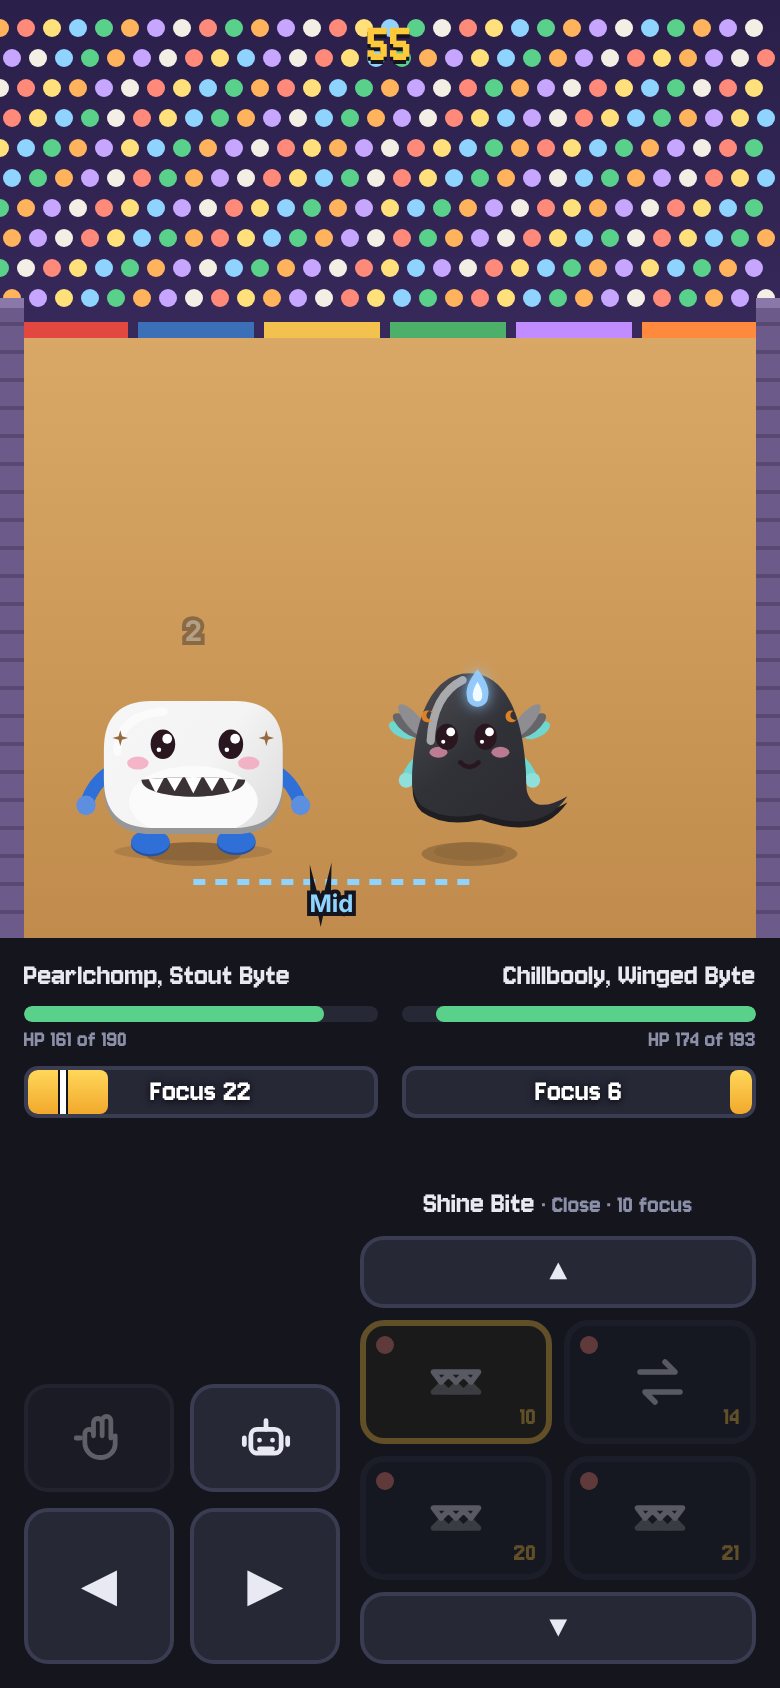
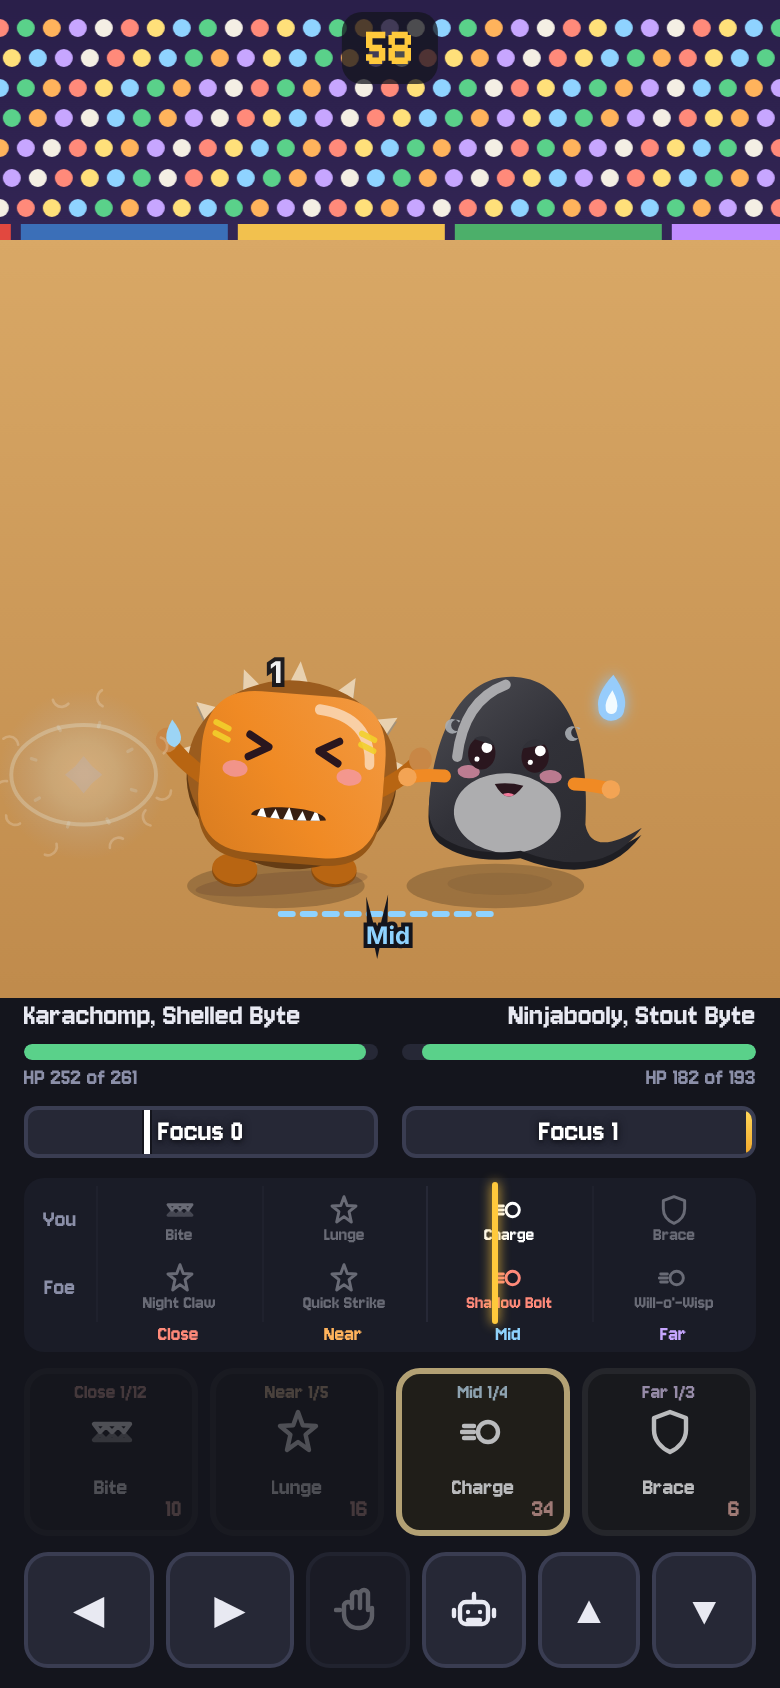
Fight screen: four range boxes, a range panel with your moves and the opponent's, a bigger arena that scrolls, and a light button that takes taps
- The light button sat in a bar that lets taps through, so it never got them
- One box per range; a tap uses its move when it reaches, otherwise selects it for up and down
- The range panel shows your move and the opponent's strongest move for each range, with a marker that follows the real gap
- The arena is 1.7 screens wide with a following camera and bigger Snabits

Claude-Session: https://claude.ai/code/session_01MQWzxUjVm8ojsjAXsvRGrb

diff --git a/prototype/arena-ui.js b/prototype/arena-ui.js
@@ -60,6 +60,23 @@ function atStyle(){
 #atest .slot .rd{position:absolute;left:5px;top:5px;width:9px;height:9px;border-radius:50%}
 #atest .slot.out{opacity:.32}#atest .slot.wait{filter:saturate(.4) brightness(.8)}#atest .slot.poor .c{color:#ff8a7a}#atest .slot.sel{border-color:#ffc93c;background:#2a2617}
 #atest .arr{height:36px;font-size:15px}
+#atest .scr{flex:1 1 auto;min-height:200px}#atest .scr canvas{position:absolute;left:0;right:0;top:var(--safe-t,0px);width:100%}
+#atest .rng{position:relative;margin:6px 12px 0;padding:4px 0 2px;background:#1a1c27;border-radius:10px}
+#atest .rg-row,#atest .rg-lab{display:grid;grid-template-columns:36px repeat(4,1fr);align-items:center}
+#atest .who{font-size:10px;color:#8b8fa8;text-align:center;font-weight:700}
+#atest .rc{height:34px;display:flex;flex-direction:column;align-items:center;justify-content:center;gap:1px;color:#c9cbd6;opacity:.45;border-left:1px solid #262836}
+#atest .rc svg{width:16px;height:16px}#atest .rc small{font-size:8px;line-height:1;max-width:100%;overflow:hidden;white-space:nowrap;text-overflow:ellipsis;padding:0 2px}
+#atest .rc.lit{opacity:1;color:#fff}#atest .rc.foe.lit{color:#ff8a7a}#atest .rc.none small{color:#5d6075}
+#atest .rg-lab span{font-size:9px;font-weight:700;text-align:center}
+#atest .mk{position:absolute;top:2px;bottom:14px;width:3px;margin-left:-1px;background:#ffc93c;border-radius:2px;box-shadow:0 0 6px #ffc93c;transition:left .1s linear}
+#atest .boxes{display:grid;grid-template-columns:repeat(4,1fr);gap:6px;padding:8px 12px 0}
+#atest .box{position:relative;height:84px;border-radius:12px;background:#1d1f2b;border:3px solid #2c2f40;display:flex;flex-direction:column;align-items:center;justify-content:center;gap:2px;padding:0 3px;color:#e8e9f2}
+#atest .box svg{width:24px;height:24px;flex:none}#atest .box .bl{position:absolute;top:3px;left:0;right:0;text-align:center;font-size:9px;font-weight:700}
+#atest .box .n{font-size:10px;font-weight:700;line-height:1.1;text-align:center;max-width:100%;overflow:hidden;display:-webkit-box;-webkit-line-clamp:2;-webkit-box-orient:vertical;margin-top:8px}
+#atest .box .c{position:absolute;right:5px;bottom:2px;font-size:11px;font-weight:700;color:#ffc93c}
+#atest .box.out{opacity:.35}#atest .box.poor .c{color:#ff8a7a}#atest .box.sel{border-color:#ffc93c;background:#2a2617}#atest .box.wait{filter:saturate(.4) brightness(.8)}#atest .box.empty .n{color:#5d6075;margin:0}
+#atest .ctl2{display:grid;grid-template-columns:1.25fr 1.25fr 1fr 1fr 1fr 1fr;gap:6px;padding:8px 12px calc(env(safe-area-inset-bottom,0px) + 10px)}
+#atest .ctl2 .btn{height:58px;font-size:20px}#atest .ctl2 .walk{font-size:26px}#atest .ctl2 svg{width:24px;height:24px}#atest .ctl2 .off{opacity:.35}#atest .ctl2 .on{border-color:#ffc93c;color:#ffc93c}
 #atest .res{position:absolute;left:16px;right:16px;top:38%;background:#1d1f2b;border:2px solid #ffc93c;border-radius:14px;padding:16px;text-align:center}
 #atest .res h2{margin:0 0 6px;color:#ffc93c}#atest .res .row{display:flex;gap:8px;margin-top:12px}#atest .res .btn{flex:1;height:46px}`;
   document.head.appendChild(st);
@@ -113,35 +130,47 @@ function atStart(meFam,foeFam){   // picks: see atMake
   const moves=A.f.moves.slice().sort((a,b)=>order.indexOf(a.range)-order.indexOf(b.range)||a.cost-b.cost);
   AT={ar,A,B,moves,sel:0,top:0,auto:false,last:performance.now(),acc:0,te:0,freeze:0,trauma:0,raf:0,side:[A.spec,B.spec].map(spec=>({spec,x:null,shown:"idle",from:"idle",t0:0,dir:1})),fx:[],done:false,me:meFam,foe:foeFam};
   CB.parts=[]; CB.puffs=[];
+  // each range has its own box; ▲ ▼ swap which of that range's moves sits in the selected box. Moves usable at any range join every box's list
+  AT.lists={}; AT.idx={}; for(const b of AR.BANDS){ AT.lists[b]=moves.filter(m=>m.range===b).concat(moves.filter(m=>m.range==="Any")); AT.idx[b]=0; }
+  AT.selBand=ar.band();
+  // the opponent's strongest move at each range, so you can see where it's dangerous
+  AT.foeBest={}; for(const b of AR.BANDS){ const c=B.f.moves.filter(m=>m.range===b&&m.dmg).sort((x,y)=>y.dmg*(y.hits||1)*y.acc-x.dmg*(x.hits||1)*x.acc); AT.foeBest[b]=c[0]||null; }
   const d=document.getElementById("atest");
   d.innerHTML=`<div class="scr"><canvas id="at-cv"></canvas><div class="clock2" id="at-clock">60</div></div>
     <div class="stat"><div><div class="nm">${A.f.name}</div><div class="hpb"><i id="at-hp0"></i></div><div class="hpt" id="at-l0"></div><div class="fob" id="at-fb0"><i id="at-fo0"></i><span class="need" id="at-need"></span><b id="at-fn0"></b></div></div>
       <div class="r"><div class="nm">${B.f.name}</div><div class="hpb"><i id="at-hp1"></i></div><div class="hpt" id="at-l1"></div><div class="fob" id="at-fb1"><i id="at-fo1"></i><b id="at-fn1"></b></div></div></div>
-    <div class="pad"><div class="lpad"><button class="btn ico" id="at-shove" aria-label="Shove">${AT_ICON.shove}</button><button class="btn ico" id="at-auto" aria-label="Auto">${AT_ICON.auto}</button>
-      <button class="btn ico walk" id="at-l" aria-label="Walk left">◀</button><button class="btn ico walk" id="at-r" aria-label="Walk right">▶</button></div>
-      <div class="rpad"><button class="btn arr" id="at-up" aria-label="Previous moves">▲</button><div class="slots" id="at-rows"></div><button class="btn arr" id="at-dn" aria-label="Next moves">▼</button></div></div>`;
+    <div class="rng"><div class="rg-row"><span class="who">You</span>${AR.BANDS.map(b=>`<div class="rc" id="at-y-${b}"></div>`).join("")}</div>
+      <div class="rg-row"><span class="who">Foe</span>${AR.BANDS.map(b=>{ const m=AT.foeBest[b]; return `<div class="rc foe ${m?"":"none"}">${m?atIcon(m)+`<small>${m.name}</small>`:"<small>Nothing</small>"}</div>`; }).join("")}</div>
+      <div class="rg-lab"><span></span>${AR.BANDS.map(b=>`<span style="color:${AT_RC[b]}">${b}</span>`).join("")}</div><div class="mk" id="at-mark"></div></div>
+    <div class="boxes" id="at-boxes"></div>
+    <div class="ctl2"><button class="btn walk" id="at-l" aria-label="Walk left">◀</button><button class="btn walk" id="at-r" aria-label="Walk right">▶</button>
+      <button class="btn ico" id="at-shove" aria-label="Shove">${AT_ICON.shove}</button><button class="btn ico" id="at-auto" aria-label="Auto">${AT_ICON.auto}</button>
+      <button class="btn arr" id="at-up" aria-label="Previous move for this range">▲</button><button class="btn arr" id="at-dn" aria-label="Next move for this range">▼</button></div>`;
   const hold=(id,dir)=>{ const b=document.getElementById(id), on=e=>{ e.preventDefault(); ar.p[0].wantDir=dir; b.classList.add("on"); }, off=()=>{ if(ar.p[0].wantDir===dir) ar.p[0].wantDir=0; b.classList.remove("on"); };
     b.addEventListener("pointerdown",on); b.addEventListener("pointerup",off); b.addEventListener("pointercancel",off); b.addEventListener("pointerleave",off); };
   hold("at-l",-1); hold("at-r",1);
   document.getElementById("at-shove").onclick=()=>ar.shove(ar.p[0]);
   document.getElementById("at-auto").onclick=e=>{ AT.auto=!AT.auto; ar.p[0].ai=AT.auto?"smart":"human"; e.currentTarget.classList.toggle("on",AT.auto); };
-  const n=moves.length, cyc=k=>(k%n+n)%n;
-  document.getElementById("at-up").onclick=()=>{ AT.top=cyc(AT.top-2); AT.sel=AT.top; atRows(); };
-  document.getElementById("at-dn").onclick=()=>{ AT.top=cyc(AT.top+2); AT.sel=AT.top; atRows(); };
-  document.getElementById("at-rows").onclick=e=>{ const r=e.target.closest("[data-k]"); if(!r) return; const k=+r.dataset.k;
-    if(k!==AT.sel){ AT.sel=k; atRows(); return; } ar.start(ar.p[0],moves[k]); };
+  const cyc=dirn=>{ const b=AT.selBand, n=AT.lists[b].length; if(!n) return; AT.idx[b]=((AT.idx[b]+dirn)%n+n)%n; atRows(); };
+  document.getElementById("at-up").onclick=()=>cyc(-1); document.getElementById("at-dn").onclick=()=>cyc(1);
+  // a tap on a box uses its move when it can reach and you can afford it; otherwise it just selects that box for ▲ ▼
+  document.getElementById("at-boxes").onclick=e=>{ const r=e.target.closest("[data-b]"); if(!r) return; const b=r.dataset.b, m=AT.lists[b][AT.idx[b]];
+    AT.selBand=b; if(m&&ar.inRange(m)&&ar.p[0].focus>=m.cost) ar.start(ar.p[0],m); atRows(); };
   atRows(); atSize();
   AT.raf=requestAnimationFrame(atLoop);
 }
-function atSize(){ const cv=document.getElementById("at-cv"), W=cv.clientWidth||390, H=Math.round(Math.max(220,Math.min(520,(window.innerHeight||844)-375))), dpr=Math.min(2,devicePixelRatio||1);
-  cv.width=W*dpr; cv.height=H*dpr; cv.style.height=H+"px"; AT.W=W; AT.H=H; AT.dpr=dpr; }
-/* four move slots at a time, each with its icon, name, range dot and cost; ▲ ▼ cycle through the rest */
+function atSize(){ const cv=document.getElementById("at-cv"), scr=cv.parentElement, W=scr.clientWidth||390;
+  const pad=parseFloat(getComputedStyle(scr).paddingTop)||0, H=Math.round(Math.max(200,Math.min(700,scr.clientHeight-pad-6))), dpr=Math.min(2,devicePixelRatio||1);
+  cv.style.height=H+"px"; cv.width=W*dpr; cv.height=H*dpr; AT.W=W; AT.H=H; AT.dpr=dpr; AT.WW=Math.round(W*1.7); AT.bg=null; }
+window.addEventListener("resize",()=>{ if(AT&&document.getElementById("at-cv")) atSize(); });
+/* the four range boxes and the "You" row of the range panel */
 function atRows(){
-  const ar=AT.ar, p=ar.p[0], M=AT.moves, n=M.length, rows=document.getElementById("at-rows"); if(!rows) return;
-  const ks=[0,1,2,3].map(j=>(AT.top+j)%n);
-  const html=ks.map(k=>{ const m=M[k], on=ar.inRange(m);
-    return `<div class="slot ${on?"":"out"} ${k===AT.sel?"sel":""} ${p.focus<m.cost?"poor":""} ${ar.turn||p.cool>0?"wait":""}" data-k="${k}"><span class="rd" style="background:${AT_RC[m.range]}"></span>${atIcon(m)}<span class="c">${m.cost}</span><span class="n">${m.name}</span></div>`; }).join("");
-  if(html!==AT.rowsHtml){ rows.innerHTML=html; AT.rowsHtml=html; }
+  const ar=AT.ar, p=ar.p[0], wrap=document.getElementById("at-boxes"); if(!wrap) return;
+  const html=AR.BANDS.map(b=>{ const m=AT.lists[b][AT.idx[b]], on=m&&ar.inRange(m);
+    if(!m) return `<div class="box empty" data-b="${b}"><span class="bl" style="color:${AT_RC[b]}">${b}</span><span class="n">No move</span></div>`;
+    return `<div class="box ${on?"":"out"} ${b===AT.selBand?"sel":""} ${p.focus<m.cost?"poor":""} ${ar.turn||p.cool>0?"wait":""}" data-b="${b}"><span class="bl" style="color:${AT_RC[b]}">${b}${AT.lists[b].length>1?` ${AT.idx[b]+1}/${AT.lists[b].length}`:""}</span>${atIcon(m)}<span class="n">${m.name}</span><span class="c">${m.cost}</span></div>`; }).join("");
+  if(html!==AT.rowsHtml){ wrap.innerHTML=html; AT.rowsHtml=html;
+    for(const b of AR.BANDS){ const m=AT.lists[b][AT.idx[b]], c=document.getElementById("at-y-"+b); if(c) c.innerHTML=m?atIcon(m)+`<small>${m.name}</small>`:"<small>Nothing</small>"; } }
 }
 const AT_ICON=(()=>{ const sv=b=>`<svg viewBox="0 0 24 24" fill="none" stroke="currentColor" stroke-width="2.2" stroke-linecap="round" stroke-linejoin="round">${b}</svg>`;
   return { bite:sv('<path d="M3 8h18l-3 4-3-3-3 3-3-3-3 3z"/><path d="M3 16h18l-3-3-3 3-3-3-3 3-3-3z" opacity=".55"/>'),
@@ -237,16 +266,19 @@ function atSideState(S,te){
 function atDraw(now,dte){
   const cv=document.getElementById("at-cv"); if(!cv) return; const c=cv.getContext("2d"), W=AT.W, H=AT.H, dpr=AT.dpr, ar=AT.ar, te=AT.te;
   CB.te=te;   // the battle helpers (sparks, dust, bursts) run on this clock
-  if(!AT.bg){ const b=document.createElement("canvas"); b.width=W*dpr; b.height=H*dpr; const x=b.getContext("2d"); x.scale(dpr,dpr); atStage(x,W,H); AT.bg=b; }
+  const WW=AT.WW||W;   // the arena is wider than the screen and the camera follows the fight
+  if(!AT.bg){ const b=document.createElement("canvas"); b.width=WW*dpr; b.height=H*dpr; const x=b.getContext("2d"); x.scale(dpr,dpr); atStage(x,WW,H); AT.bg=b; }
   const shake=AT.trauma*AT.trauma*7; AT.trauma=Math.max(0,AT.trauma-dte/700);
   const sx=shake?Math.sin(te/23)*shake:0, sy=shake?Math.cos(te/31)*shake*0.6:0;
-  c.setTransform(dpr,0,0,dpr,0,0); c.clearRect(0,0,W,H); c.drawImage(AT.bg,sx,sy,W,H);
-  const floor=H-44, X=x=>34+x/AR.LEN*(W-68), scale=Math.min(1.5,Math.max(1,H/300)), alpha=Math.min(1,AT.acc/AR.DT);
+  const floor=H-58, X=x=>70+x/AR.LEN*(WW-140), scale=Math.min(1.85,Math.max(1.15,H/260)), alpha=Math.min(1,AT.acc/AR.DT);
   // glide between engine steps, then ease toward that so pushes and swaps slide instead of jumping
   ar.p.forEach((p,i)=>{ const S=AT.side[i], want=X(p.px==null?p.x:p.px+(p.x-p.px)*alpha);
     S.x=S.x==null?want:S.x+(want-S.x)*(1-Math.exp(-dte/45)); });
   { const a=AT.side[0], b=AT.side[1], min=58*scale, gap=Math.abs(b.x-a.x);
-    if(gap<min){ const mid=Math.max(34+min/2,Math.min(W-34-min/2,(a.x+b.x)/2)), s=b.x>=a.x?1:-1; a.dx=mid-s*min/2; b.dx=mid+s*min/2; } else { a.dx=a.x; b.dx=b.x; } }
+    if(gap<min){ const mid=Math.max(70+min/2,Math.min(WW-70-min/2,(a.x+b.x)/2)), s=b.x>=a.x?1:-1; a.dx=mid-s*min/2; b.dx=mid+s*min/2; } else { a.dx=a.x; b.dx=b.x; } }
+  // the camera keeps both in view, centred between them, and eases after them
+  { const want=Math.max(0,Math.min(WW-W,(AT.side[0].dx+AT.side[1].dx)/2-W/2)); AT.cam=AT.cam==null?want:AT.cam+(want-AT.cam)*(1-Math.exp(-dte/140)); }
+  c.setTransform(dpr,0,0,dpr,0,0); c.clearRect(0,0,W,H); c.drawImage(AT.bg,-AT.cam+sx,sy,WW,H); c.translate(-AT.cam,0);
   // the gap between them on the floor
   { const a=Math.min(AT.side[0].dx,AT.side[1].dx), b=Math.max(AT.side[0].dx,AT.side[1].dx), y=floor+16, band=arBand(ar.gap());
     c.strokeStyle=AT_RC[band]; c.lineWidth=3; c.setLineDash([6,5]); c.beginPath(); c.moveTo(a,y); c.lineTo(b,y); c.stroke(); c.setLineDash([]);
@@ -287,7 +319,7 @@ function atDraw(now,dte){
 }
 
 function atHud(){
-  const ar=AT.ar, g=ar.gap(), m=AT.moves[AT.sel];
+  const ar=AT.ar, g=ar.gap(), m=AT.lists[AT.selBand][AT.idx[AT.selBand]]||{cost:0,range:"Any"};
   ar.p.forEach((p,i)=>{ document.getElementById("at-hp"+i).style.width=(100*p.hp/p.maxhp)+"%"; document.getElementById("at-fo"+i).style.width=(100*p.focus/99)+"%";
     document.getElementById("at-l"+i).textContent=`HP ${p.hp} of ${p.maxhp}`; document.getElementById("at-fn"+i).textContent=`Focus ${Math.floor(p.focus)}`; });
   // a white line on your focus bar shows what the selected move costs, and the bar lights up once you can afford it
@@ -295,11 +327,16 @@ function atHud(){
   document.getElementById("at-fb0").classList.toggle("ok",ar.p[0].focus>=m.cost&&ar.inRange(m));
   document.getElementById("at-clock").textContent=Math.max(0,Math.ceil(AR.TIME-ar.t));
   const sh=document.getElementById("at-shove"), can=arBand(g)==="Close"&&!(ar.p[0].shoveCool>0); sh.classList.toggle("off",!can);
+  // the marker slides along the range panel with the real gap, and the column it's in lights up for both of you
+  const edges=[0,10,25,45,90], k=Math.min(3,edges.findIndex((e,i)=>g<edges[i+1])<0?3:edges.findIndex((e,i)=>g<edges[i+1])), frac=Math.max(0,Math.min(1,(g-edges[k])/(edges[k+1]-edges[k])));
+  document.getElementById("at-mark").style.left=`calc(36px + (100% - 36px) * ${((k+frac)/4).toFixed(4)})`;
+  const band=AR.BANDS[k]; if(AT.litBand!==band){ AT.litBand=band; document.querySelectorAll("#atest .rc").forEach(c=>c.classList.remove("lit"));
+    document.querySelectorAll(`#at-y-${band}, #atest .rg-row:nth-child(2) .rc:nth-child(${k+2})`).forEach(c=>c.classList.add("lit")); }
 }
 const min58=scale=>58*scale*0.92;
 function atStage(c,W,H){
   const sky=c.createLinearGradient(0,0,0,H*0.45); sky.addColorStop(0,"#2a1f4a"); sky.addColorStop(1,"#3a2b5e"); c.fillStyle=sky; c.fillRect(0,0,W,H);
-  const cols=["#ffb35c","#8fd3ff","#ff8a7a","#c7a6ff","#5ad18a","#ffe07a","#f4efe4"], top=Math.round(H*0.36);
+  const cols=["#ffb35c","#8fd3ff","#ff8a7a","#c7a6ff","#5ad18a","#ffe07a","#f4efe4"], top=Math.round(H*0.24);
   const rows=Math.max(5,Math.floor((top-14)/15)); for(let r=0;r<rows;r++) for(let x=0;x<W;x+=13){ const cx=x+(r%2?6:0), cy=14+r*15; c.fillStyle=cols[((x*131+r*977)>>3)%cols.length]; c.beginPath(); c.arc(cx,cy,4.5,0,7); c.fill(); }
   for(let k=0;k<6;k++){ c.fillStyle=["#e2483f","#3b6fb8","#f2c14e","#4caf6a","#c08cff","#ff8a3d"][k]; c.fillRect(6+k*(W-12)/6,top-8,(W-12)/6-5,8); }
   const fl=c.createLinearGradient(0,top,0,H); fl.addColorStop(0,"#d9a866"); fl.addColorStop(1,"#c08b4c"); c.fillStyle=fl; c.fillRect(0,top,W,H-top);

diff --git a/prototype/ui.css b/prototype/ui.css
@@ -50,6 +50,7 @@ body[data-mode="live"] #corners,body[data-mode="aim"] #corners{display:block}
 #card.card-in{animation:cardIn .5s cubic-bezier(.2,.9,.3,1.15)}
 @keyframes cardIn{from{translate:0 60%;opacity:0}to{translate:0 0;opacity:1}}
 #top{position:fixed;left:0;right:0;top:0;padding:calc(var(--safe-t) + 12px) 14px 10px;display:flex;gap:8px;align-items:center;flex-wrap:wrap;pointer-events:none}
+#top #lightbtn{pointer-events:auto}   /* the bar lets taps through to the camera, but the light button has to take them */
 .chip{font:700 14px var(--pix);padding:3px 10px;border-radius:5px;background:#222;color:#fff;border:0}
 #kind{font:700 14px var(--pix);padding:3px 10px;border-radius:5px;background:#3a3f55;color:var(--text)}
 #bars{position:fixed;left:14px;right:14px;bottom:calc(var(--safe-b) + 118px);display:grid;gap:5px;pointer-events:none;

diff --git a/docs/art/HANDOUT.md b/docs/art/HANDOUT.md
@@ -199,7 +199,7 @@ Gid caught AI slop in the storyboard lines on 12 Nov 2026 because the skills wer
 
 ## Next
 
-- **The new arena (in progress, 14 Nov 2026).** Gid approved a real-time arena: a line between two walls, the Snabits facing the camera and looking at each other, four range bands (Close, Near, Mid, Far), focus that fills over time, Shove at Close, swap moves, push and pull, and a scrolling move list in place of the 4-slot loadout. The plan and every family's moveset are in the doc https://claude.ai/artifact/D3krLg77oc8unWRzAbfRLC, the mockup is `docs/art/arena-mockup.png`, and the engine is `prototype/arena.js` (not loaded by the game yet). Stamina fills focus, Mind adds Wither strength, Insight resists Wither. Gid approved the doc on 14 Nov 2026: 60-second fights, a free Shove with a 1.5 second wait, the move names, a walking speed per family (`FAM_WALK`), each family's first move taking its element (`EL_PREFIX`), and every element skill kept. The test arena is `prototype/arena-ui.js`, opened from Practice battle on the title screen or with `#arena` at the end of the address. Practice can use a ranch Snabit as it is (the opponent matches its level and grade), a fresh scan trained to level 30 (the scan card shows Practice with it), or a family preset at level 30. Moves are turns, the MR2 way (14 Nov 2026): whoever acts first goes, the fight and the clock stop while the move plays its full animation from the battle's `ANIM`, then both carry on. The computer takes 0.35 to 0.7 seconds to react, and a Snabit waits 0.6 seconds after its own move before it can act again. In the second balance run families won 39% to 65%. Next: Gid plays the test arena, tune from his feedback, then the full switch (re-aim the attack animations, cups, wild fights and Auto on the new engine).
+- **The new arena (in progress, 14 Nov 2026).** Gid approved a real-time arena: a line between two walls, the Snabits facing the camera and looking at each other, four range bands (Close, Near, Mid, Far), focus that fills over time, Shove at Close, swap moves, push and pull, and a scrolling move list in place of the 4-slot loadout. The plan and every family's moveset are in the doc https://claude.ai/artifact/D3krLg77oc8unWRzAbfRLC, the mockup is `docs/art/arena-mockup.png`, and the engine is `prototype/arena.js` (not loaded by the game yet). Stamina fills focus, Mind adds Wither strength, Insight resists Wither. Gid approved the doc on 14 Nov 2026: 60-second fights, a free Shove with a 1.5 second wait, the move names, a walking speed per family (`FAM_WALK`), each family's first move taking its element (`EL_PREFIX`), and every element skill kept. The test arena is `prototype/arena-ui.js`, opened from Practice battle on the title screen or with `#arena` at the end of the address. The fight screen (14 Nov 2026) has the arena on top, 1.7 screens wide with a camera that follows both Snabits. Below it are HP and focus, then a range panel with your move and the opponent's strongest move for Close, Near, Mid and Far and a gold marker sliding with the real gap. Under that are four range boxes (a tap uses the move when it can reach, otherwise selects the box, and ▲ ▼ change that box's move), then ◀ ▶, Shove, Auto and ▲ ▼. Practice can use a ranch Snabit as it is (the opponent matches its level and grade), a fresh scan trained to level 30 (the scan card shows Practice with it), or a family preset at level 30. Moves are turns, the MR2 way (14 Nov 2026): whoever acts first goes, the fight and the clock stop while the move plays its full animation from the battle's `ANIM`, then both carry on. The computer takes 0.35 to 0.7 seconds to react, and a Snabit waits 0.6 seconds after its own move before it can act again. In the second balance run families won 39% to 65%. Next: Gid plays the test arena, tune from his feedback, then the full switch (re-aim the attack animations, cups, wild fights and Auto on the new engine).
 - Computer opponents don't use signature skills yet.
 - An NPC who reveals a Snabit's growth ranks and lifespan for a fee.
 - Remove the gallery button from the Snaboscope.
